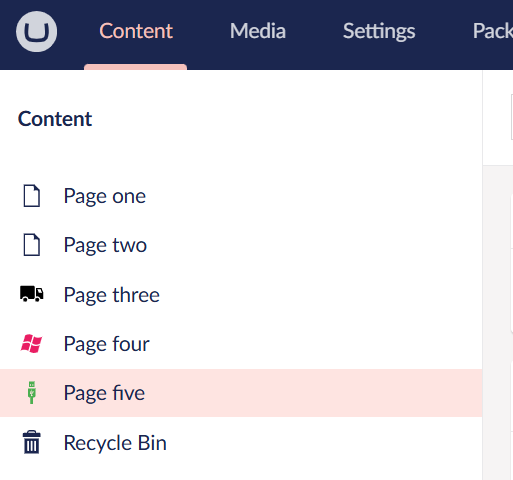
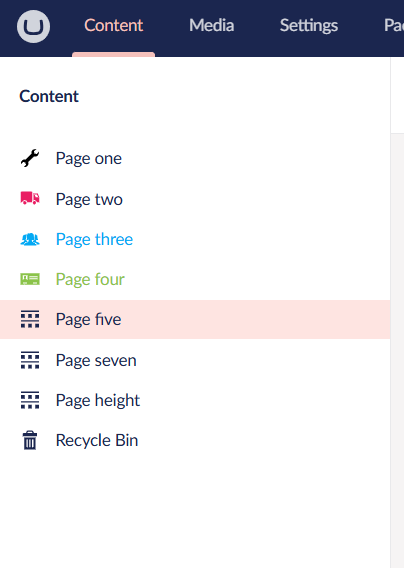
rel: opening 1.0.2

diff --git a/README.md b/README.md
@@ -19,11 +19,10 @@ PM> Install-Package U13SK.ContentNodeIcons
 ## Features and Usage
 
 ### Key Features
-- Assign unique icons to content nodes.
+- Assign unique and customizable icons to content nodes, regardless of their type in Umbraco.
+- Change the text color of any node for better visibility or to match specific themes.
 - Intuitive backoffice UI for selecting and managing icons.
 - Seamlessly integrates into the existing Umbraco content structure.
-
-*(Detailed walkthrough coming soon.)*
 
 ## Screenshots
 
